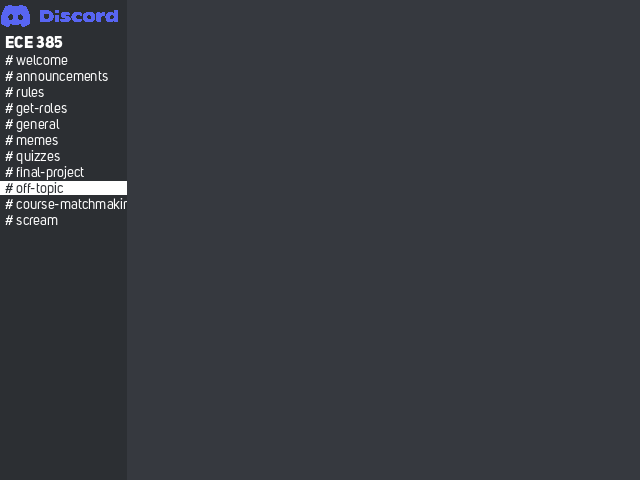
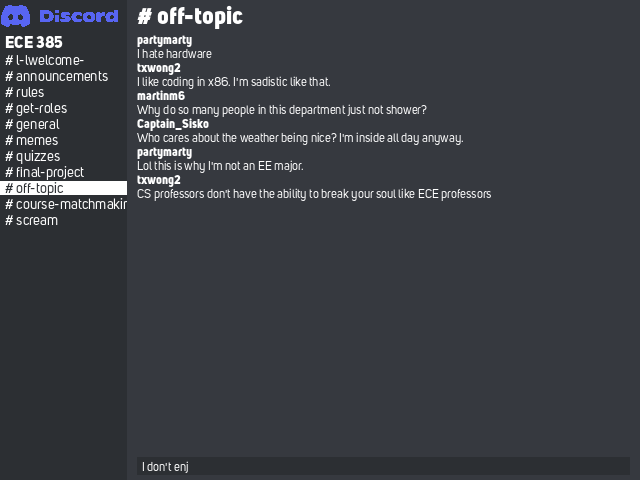
Progress on the development of fonts

Changed region(s): [[0.1875, 0.0, 0.75, 0.4375], [0.0312, 0.0938, 0.125, 0.1562], [0.2188, 0.9688, 0.3125, 1.0]]

diff --git a/image_processing/generate_ui_sv.py b/image_processing/generate_ui_sv.py
@@ -1,0 +1,182 @@
+import string
+import numpy as np
+from PIL import Image, ImageFont, ImageDraw
+
+def main():
+    # Colors
+    colors = {
+        'blurple'    : (88, 101, 242),
+        'grey'       : (44, 47, 51),
+        'light_grey' : (54, 57, 63),
+        'white'      : (255, 255, 255)
+    }
+
+    # Wipe the macros file, write colors
+    with open('./data/sv_files/macros.sv', 'w') as f:
+        f.write('// Color macros\n')
+        for color in colors:
+            macro_val = '{ '
+            for i, val in enumerate(colors[color]):
+                macro_val += f'8\'d{val}' if i == 2 else f'8\'d{val}, '
+            macro_val += ' }'
+            f.write(f'`define {color.upper()}{" "*(12-len(color))}{macro_val}\n')
+        f.write('\n')
+
+    # Macros for logo rendering
+    LOGO_START_Y = 0
+    LOGO_END_Y   = 31
+    LOGO_START_X = 1
+    LOGO_END_X   = 117
+
+    # Macros for server title font
+    FONT_SERVER_YMARGIN = 1
+    FONT_SERVER_HEIGHT  = 16
+
+    # Macros for channel font
+    FONT_CHANNEL_YMARGIN = 1
+    FONT_CHANNEL_HEIGHT  = 14
+
+    # Macros for sidebar rendering
+    SIDEBAR_SERVER_Y_OFFSET  = LOGO_END_Y + 4 + FONT_SERVER_YMARGIN
+    SIDEBAR_CHANNEL_Y_OFFSET = LOGO_END_Y + FONT_SERVER_YMARGIN*2 + FONT_SERVER_HEIGHT
+    SIDEBAR_OFFSET_X         = 5
+    SIDEBAR_END_X            = LOGO_END_X + 10
+
+    # Write important y-axis bounds to the macros file
+    with open('./data/sv_files/macros.sv', 'a') as f:
+        f.write('// Logo macros\n')
+        f.write(f'`define LOGO_START_Y    {LOGO_START_Y}\n')
+        f.write(f'`define LOGO_END_Y      {LOGO_END_Y}\n')
+        f.write(f'`define LOGO_START_X    {LOGO_START_X}\n')
+        f.write(f'`define LOGO_END_X      {LOGO_END_X}\n')
+        f.write('\n')
+        f.write('// Server font macros\n')
+        f.write(f'`define FONT_SERVER_YMARGIN    {FONT_SERVER_YMARGIN}\n')
+        f.write(f'`define FONT_SERVER_HEIGHT     {FONT_SERVER_HEIGHT}\n')
+        f.write('\n')
+        f.write('// Channel font macros\n')
+        f.write(f'`define FONT_CHANNEL_YMARGIN   {FONT_CHANNEL_YMARGIN}\n')
+        f.write(f'`define FONT_CHANNEL_HEIGHT    {FONT_CHANNEL_HEIGHT}\n')
+        f.write('\n')
+        f.write('// Sidebar macros\n')
+        f.write(f'`define SIDEBAR_SERVER_Y_OFFSET   {SIDEBAR_SERVER_Y_OFFSET}\n')
+        f.write(f'`define SIDEBAR_CHANNEL_Y_OFFSET  {SIDEBAR_CHANNEL_Y_OFFSET}\n')
+        f.write(f'`define SIDEBAR_OFFSET_X          {SIDEBAR_OFFSET_X}\n')
+        f.write(f'`define SIDEBAR_END_X             {SIDEBAR_END_X}\n')
+        f.write('\n')
+
+    # Create a dictionary for all displayable characters in each font
+    rom_char_order = string.printable
+    bitmaps = {
+        f: {c: None for c in rom_char_order} for f in ['server', 'channel', 'title', 'uname', 'message']
+    }
+    font_file_map = {
+        'server': ('./data/fonts/uni_sans_heavy.otf', 14),
+        'channel': ('./data/fonts/uni_sans_regular.otf', 16),
+        'title': ('./data/fonts/uni_sans_bold.otf', 24),
+        'uname': ('./data/fonts/uni_sans_bold.otf', 12),
+        'message': ('./data/fonts/uni_sans_bold.otf', 12)
+    }
+    for font_name in font_file_map:
+        # Render the font
+        font = ImageFont.truetype(font_file_map[font_name][0])
+        font_img = Image.new('RGB', (640, font_file_map[font_name][1]), color=colors['grey'])
+        vga_render = Image.new('RGB', (640, font_file_map[font_name][1]), color=colors['grey'])
+        font_draw = ImageDraw.Draw(font_img)
+
+        # Create a numpy array bitmap
+        idx = 0
+        for c in bitmaps[font_name]:
+            # Numpy bitmap
+            bitmap = np.zeros((font_file_map[font_name][1], 50))
+
+            # Render the font, fill the bitmap
+            font_draw.text((idx, 2), c, font=font, fill=colors['white'])
+            all_black, x, y = False, idx, 0
+            while not all_black:
+                for y in range(0, font_file_map[font_name][1]):
+                    # Set the bitmap value
+                    clr = font_img.getpixel((x, y))
+                    bitmap[y][x-idx] = clr[2]
+
+                    # Set the VGA render pixel
+                    vga_render.putpixel((x, y), clr if clr[2] > 0 else colors['grey'])
+                all_black = (bitmap[:,x-idx].sum() == 51*font_file_map[font_name][1])
+                x += 1
+            idx = x
+
+        # Save the font image
+        font_img.save(f'./data/bitmaps/{font_name}.png') 
+        vga_render.save(f'./data/bitmaps/{font_name}_vga.png') 
+
+    # VGA Screen 
+    # screen = [[discord_grey for _ in range(640)] for _ in range(480)]
+
+    # # Parse the discord logo, add to the UI
+    # with Image.open('./data/logo_h32.png') as logo:
+    #     for x in range(logo.width):
+    #         for y in range(logo.height):
+    #             p_val = logo.getpixel((x,y))
+    #             screen[y][x+1] = discord_blue if p_val[3] > 90 else discord_grey
+    # last_logo_y = 31
+
+    # # Output the UI Image
+    # output = Image.new('RGB', (640, 480), color='black')
+
+    # # Draw the logo on the output image
+    # for y in range(len(screen)):
+    #     for x in range(len(screen[0])):
+    #         output.putpixel((x,y), tuple(screen[y][x]))
+
+    # # Draw some text on the output image
+    # title_font = ImageFont.truetype('./data/fonts/uni_sans_heavy.otf', 16)
+    # draw_output = ImageDraw.Draw(output)
+    # draw_output.text((5,last_logo_y+4), "ECE 385", font=title_font, fill=white)
+
+    # # Draw text channel names
+    # names = ['welcome', 'announcements', 'rules', 'get-roles', 'general', 'memes', 'quizzes', 'final-project']
+    # channel_font = ImageFont.truetype('./data/fonts/uni_sans_regular.otf', 14)
+    # for i, name in enumerate(names):
+    #     draw_output.text((5,last_logo_y+4+18+(16*i)), f'# {name}', font=channel_font, fill=white)
+    # for y in range(last_logo_y+4+18+(16*(len(names))), last_logo_y+4+18+(16*(len(names))+14)):
+    #     for x in range(117+10):
+    #         output.putpixel((x,y), white)
+    # draw_output.text((5,last_logo_y+4+18+(16*len(names))), f'# off-topic', font=channel_font, fill=discord_grey)
+    # more_names = ['course-matchmaking', 'scream']
+    # for i, name in enumerate(more_names):
+    #     draw_output.text((5,last_logo_y+4+18+(16*i)+(16*(len(names)+1))), f'# {name}', font=channel_font, fill=white)
+
+    # # Draw overall box
+    # for y in range(0, len(screen)):
+    #     for x in range(117+10, len(screen[0])):
+    #         output.putpixel((x,y), discord_light_grey)
+
+    # # Draw the channel title
+    # title_font = ImageFont.truetype('./data/fonts/uni_sans_heavy.otf', 24)
+    # draw_output.text((117+20, 5), "# off-topic", font=title_font, fill=white)
+
+    # # Sample names, messages
+    # message_h = 12
+    # username_font = ImageFont.truetype('./data/fonts/uni_sans_heavy.otf', message_h)
+    # usermessage_font = ImageFont.truetype('./data/fonts/uni_sans_regular.otf', message_h)
+    # usernames = ['partymarty', 'txwong2', 'martinm6', 'Captain_Sisko']
+    # messages = [
+    #     'I hate hardware', 'I like coding in x86. I\'m sadistic like that.', 'Why do so many people in this department just not shower?',
+    #     'Who cares about the weather being nice? I\'m inside all day anyway.', 'Lol this is why I\'m not an EE major.', 'CS professors don\'t have the ability to break your soul like ECE professors' 
+    # ]
+    # y_off = 24+10
+    # for i, message in enumerate(messages):
+    #     draw_output.text((117+20, (message_h+2)*(i*2)+y_off), usernames[i%4], font=username_font, fill=white)
+    #     draw_output.text((117+20, (message_h+2)*(i*2 + 1)+y_off), message, font=usermessage_font, fill=white)
+
+    # # Text field to type in
+    # for y in range(output.height-message_h-11, output.height-5):
+    #     for x in range(117+20, output.width-10):
+    #         output.putpixel((x,y), discord_grey)
+    # draw_output.text((117+25, output.height-message_h-7), 'I don\'t enj', font=usermessage_font, fill=white)
+
+    # Save the image
+    output.save('vga_output.png')
+
+if __name__ == '__main__':
+    main()

diff --git a/image_processing/generate_ui_layout.py b/image_processing/generate_ui_layout.py
@@ -12,7 +12,7 @@ def main():
     screen = [[discord_grey for _ in range(640)] for _ in range(480)]
 
     # Parse the discord logo, add to the UI
-    with Image.open('./data/logo_h32.png') as logo:
+    with Image.open('./data/logos/logo_h32.png') as logo:
         for x in range(logo.width):
             for y in range(logo.height):
                 p_val = logo.getpixel((x,y))
@@ -33,9 +33,10 @@ def main():
     draw_output.text((5,last_logo_y+4), "ECE 385", font=title_font, fill=white)
 
     # Draw text channel names
-    names = ['welcome', 'announcements', 'rules', 'get-roles', 'general', 'memes', 'quizzes', 'final-project']
+    names = ['l-lwelcome-', 'announcements', 'rules', 'get-roles', 'general', 'memes', 'quizzes', 'final-project']
     channel_font = ImageFont.truetype('./data/fonts/uni_sans_regular.otf', 14)
     for i, name in enumerate(names):
+        print((5,last_logo_y+4+18+(16*i)))
         draw_output.text((5,last_logo_y+4+18+(16*i)), f'# {name}', font=channel_font, fill=white)
     for y in range(last_logo_y+4+18+(16*(len(names))), last_logo_y+4+18+(16*(len(names))+14)):
         for x in range(117+10):
@@ -49,6 +50,30 @@ def main():
     for y in range(0, len(screen)):
         for x in range(117+10, len(screen[0])):
             output.putpixel((x,y), discord_light_grey)
+
+    # Draw the channel title
+    title_font = ImageFont.truetype('./data/fonts/uni_sans_heavy.otf', 24)
+    draw_output.text((117+20, 5), "# off-topic", font=title_font, fill=white)
+
+    # Sample names, messages
+    message_h = 12
+    username_font = ImageFont.truetype('./data/fonts/uni_sans_heavy.otf', message_h)
+    usermessage_font = ImageFont.truetype('./data/fonts/uni_sans_regular.otf', message_h)
+    usernames = ['partymarty', 'txwong2', 'martinm6', 'Captain_Sisko']
+    messages = [
+        'I hate hardware', 'I like coding in x86. I\'m sadistic like that.', 'Why do so many people in this department just not shower?',
+        'Who cares about the weather being nice? I\'m inside all day anyway.', 'Lol this is why I\'m not an EE major.', 'CS professors don\'t have the ability to break your soul like ECE professors' 
+    ]
+    y_off = 24+10
+    for i, message in enumerate(messages):
+        draw_output.text((117+20, (message_h+2)*(i*2)+y_off), usernames[i%4], font=username_font, fill=white)
+        draw_output.text((117+20, (message_h+2)*(i*2 + 1)+y_off), message, font=usermessage_font, fill=white)
+
+    # Text field to type in
+    for y in range(output.height-message_h-11, output.height-5):
+        for x in range(117+20, output.width-10):
+            output.putpixel((x,y), discord_grey)
+    draw_output.text((117+25, output.height-message_h-7), 'I don\'t enj', font=usermessage_font, fill=white)
 
     # Save the image
     output.save('output.png')
